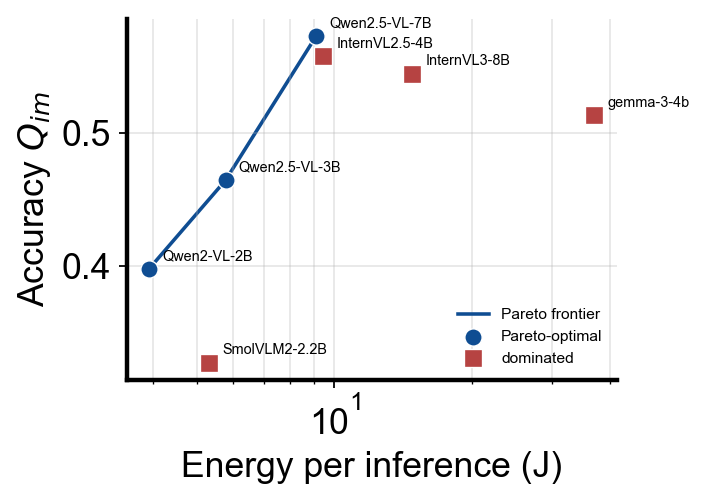
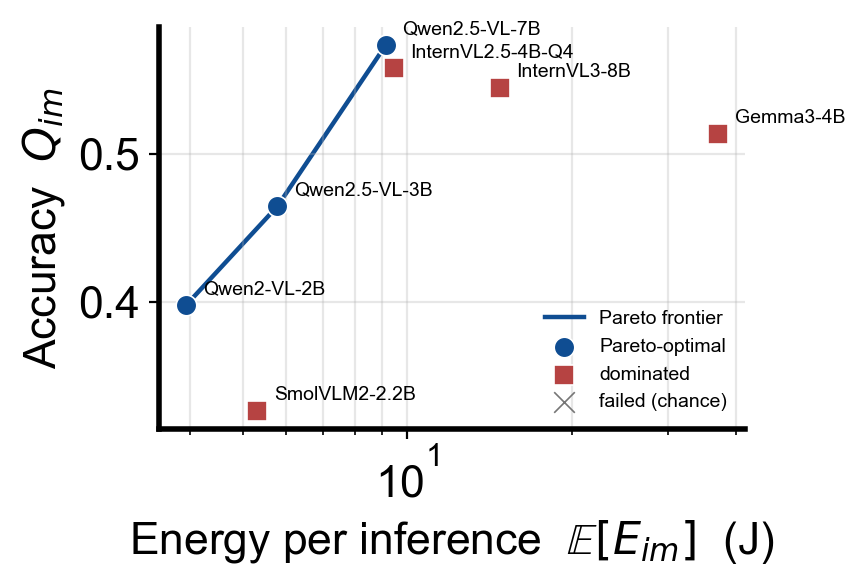
night: plot_tradeoff.py parameterized by dataset dir (reproducible RESISC45 tradeoff)

diff --git a/src/plot_tradeoff.py b/src/plot_tradeoff.py
@@ -15,8 +15,12 @@ sys.path.insert(0, os.path.dirname(os.path.abspath(__file__)))
 from figstyle import apply_house_style, savefig_pub, PALETTE
 
 HERE = os.path.dirname(os.path.abspath(__file__))
-CSV = os.path.join(HERE, "..", "data", "jetson_eurosat", "calibration_all.csv")
-OUT = os.path.join(HERE, "..", "figures", "quality_energy_tradeoff")
+# Dataset dir name via arg 1 (default RESISC45 if present, else EuroSAT). Output name carries it.
+_dsname = sys.argv[1] if len(sys.argv) > 1 else (
+    "jetson_resisc45" if os.path.isdir(os.path.join(HERE, "..", "data", "jetson_resisc45")) else "jetson_eurosat")
+CSV = os.path.join(HERE, "..", "data", _dsname, "calibration_all.csv")
+_suffix = "_RESISC45" if "resisc" in _dsname else "_EuroSAT"
+OUT = os.path.join(HERE, "..", "figures", "quality_energy_tradeoff" + _suffix)
 
 # short labels for plotting
 SHORT = {
